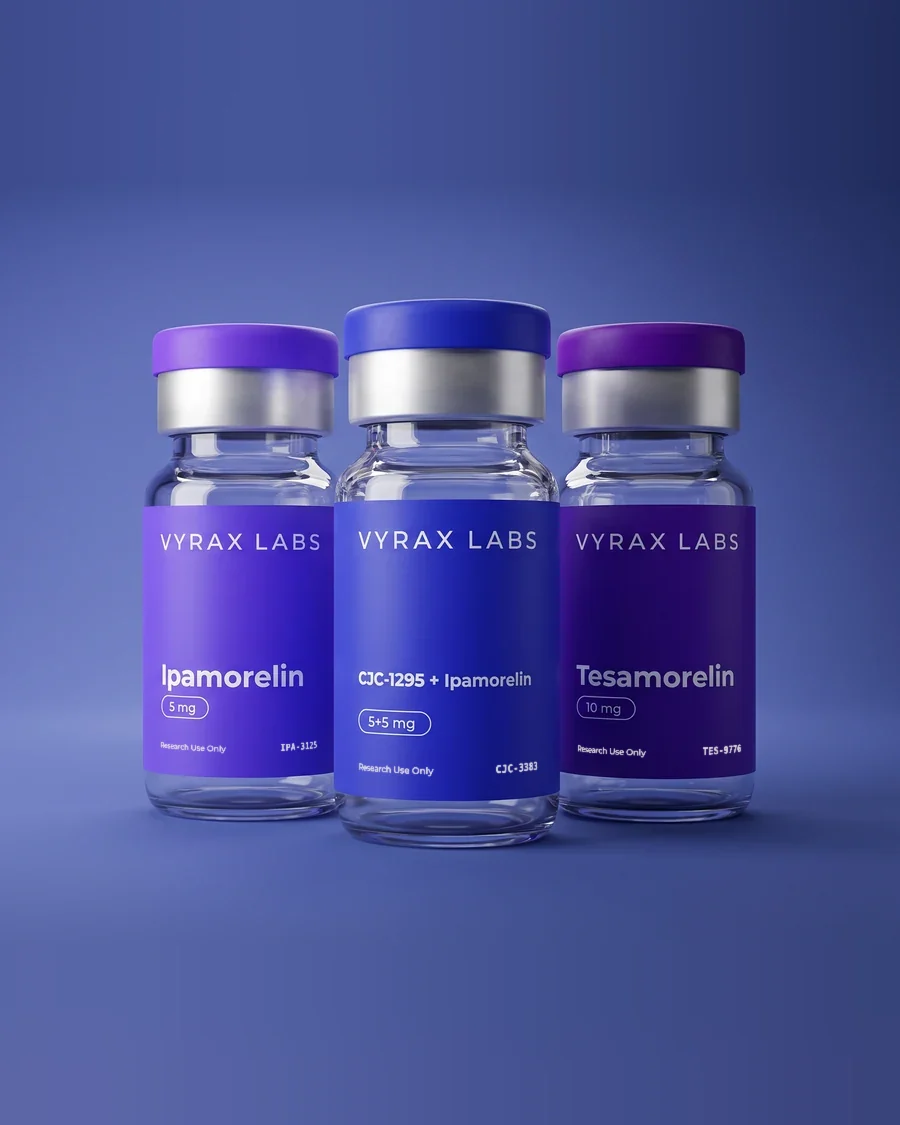
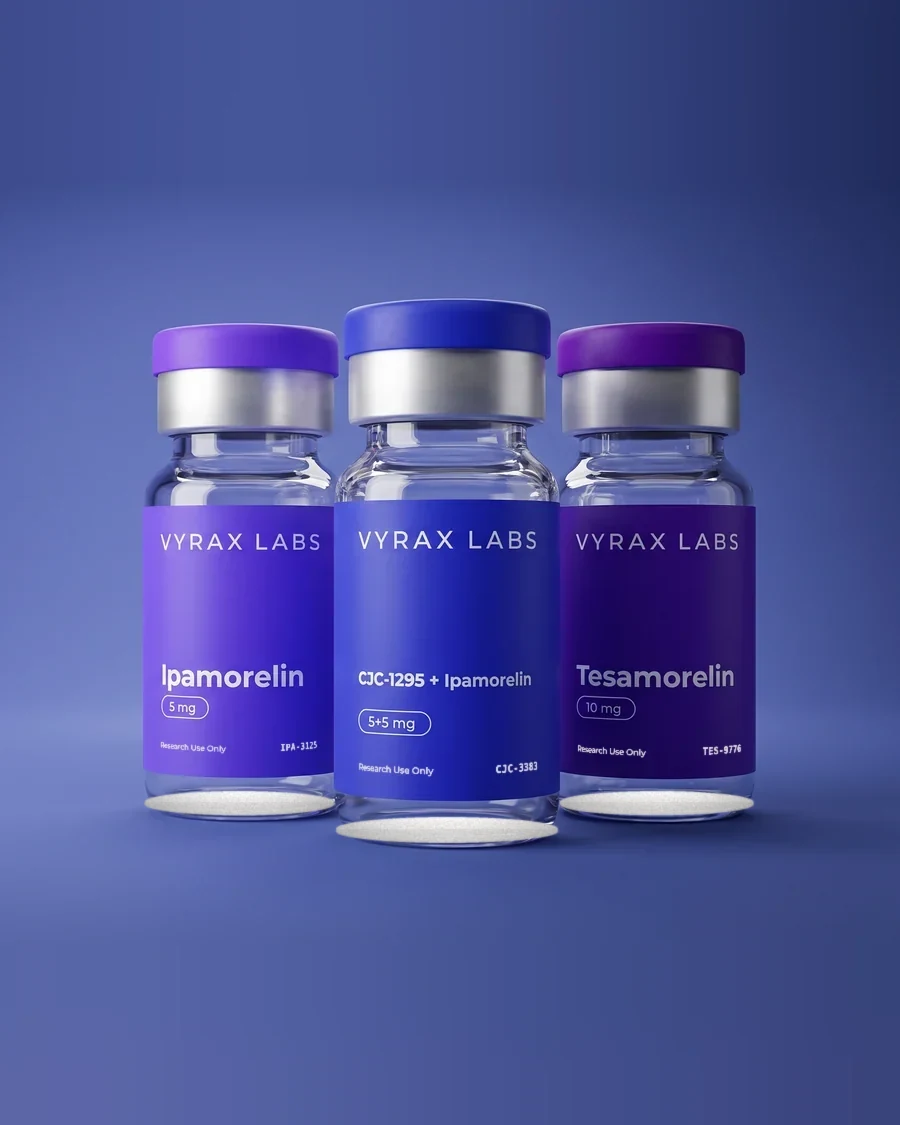
Vyrax god PR: hero powder + professional welcome popup (#14)
* Mobile hero: powder in vials; calmer, smaller welcome popup

* deploy.sh: pin checkout flag so clean-tree deploys keep checkout open

---------

Changed region(s): [[0.1556, 0.6844, 0.84, 0.7778]]

diff --git a/src/components/shell/OfferPopup.tsx b/src/components/shell/OfferPopup.tsx
@@ -95,7 +95,8 @@ export function OfferPopup() {
 
   const giftValue = offerGift?.value ?? 0;
   const retaPrice =
-    compounds.find((x) => x.slug === "retatrutide")?.strengths.find((s) => s.label === "10mg")?.price ?? 29.99;
+    compounds.find((x) => x.slug === "retatrutide")?.strengths.find((s) => s.label === "10mg")
+      ?.price ?? 29.99;
   const freeGoods = (giftValue + retaPrice).toFixed(2);
   const giftImg = offerGift ? productImage(offerGift.slug, offerGift.strength) : null;
   const retaImg = productImage("retatrutide", "10mg");
@@ -109,72 +110,75 @@ export function OfferPopup() {
         aria-modal="true"
         aria-label="Welcome offer"
         data-testid="offer-popup"
-        className="offer-panel max-h-[94vh] w-full max-w-[440px] overflow-y-auto rounded-t-[24px] border border-[#DDD9D2] bg-paper text-center shadow-[0_-20px_56px_-8px_rgba(11,27,59,0.45)] sm:rounded-[24px] sm:shadow-[0_20px_56px_-8px_rgba(11,27,59,0.45)]"
+        className="offer-panel max-h-[94vh] w-full max-w-[380px] overflow-y-auto rounded-t-[16px] border border-[#DDD9D2] bg-paper text-center shadow-[0_-20px_56px_-8px_rgba(11,27,59,0.45)] sm:rounded-[16px] sm:shadow-[0_20px_56px_-8px_rgba(11,27,59,0.45)]"
       >
         {step === "quiz" && (
-          <div className="offer-step px-6 pb-5 pt-[22px]">
-            <p className="text-[15px] font-black uppercase leading-[18px] tracking-[2.4px] text-ink">Get up to</p>
-            <p className="mt-[2px] font-heading text-[62px] font-black leading-[60px] tracking-[-2.6px] text-[#C0552A]">
-              {topOfferPct}% OFF
+          <div className="offer-step px-5 pb-4 pt-5">
+            <p className="text-[11px] font-semibold uppercase leading-[14px] tracking-[2.2px] text-ink/50">
+              Welcome offer
             </p>
-            <p className="mt-[1px] text-[25px] font-black leading-[29px] tracking-[-0.4px] text-ink">your first order</p>
-
-            <div className="mt-[14px] flex items-center gap-3">
-              <span className="h-px flex-1 bg-line" />
-              <span className="text-[13px] font-black uppercase leading-[16px] tracking-[3px] text-ink">Plus</span>
-              <span className="h-px flex-1 bg-line" />
-            </div>
-            <p className="mt-[5px] text-[23px] font-black leading-[27px] tracking-[-0.4px] text-ink">
-              <span className="text-[#C0552A]">up to £{freeGoods}</span> of free goods
+            <p className="mt-2 font-heading text-[28px] font-bold leading-[32px] tracking-[-0.02em] text-ink">
+              Up to {topOfferPct}% off{" "}
+              <span className="font-medium text-ink/70">your first order</span>
+            </p>
+            <p className="mt-1.5 text-[14px] leading-[20px] text-ink/65">
+              Plus up to <span className="font-semibold text-ink">£{freeGoods}</span> of free goods
+              on qualifying baskets.
             </p>
 
-            <div className="mt-3 grid grid-cols-2 gap-[10px]">
+            <div className="mt-4 grid grid-cols-2 gap-2">
               {giftImg && (
-                <div className="offer-tile flex flex-col items-center rounded-[16px] bg-ink pb-3 pt-[18px]">
-                  <span className="offer-vial relative flex h-[100px] w-full items-end justify-center">
-                    <img src={giftImg.src} alt="" className="h-full w-auto object-contain" />
+                <div className="offer-tile flex items-center gap-2 rounded-[12px] bg-ink px-2.5 py-2">
+                  <span className="offer-vial relative flex h-[52px] w-[40px] shrink-0 items-end justify-center">
+                    <img
+                      src={giftImg.src}
+                      alt=""
+                      className="h-full w-auto rounded-[6px] object-contain"
+                    />
                   </span>
-                  <p className="mt-[10px] px-2 text-[12px] font-bold leading-[15px] text-paper">
-                    {offerGift?.short}
-                  </p>
-                  <p className="mt-[4px] flex flex-col items-center justify-center gap-[1px]">
-                    <s className="text-[12px] font-medium leading-[15px] text-paper/45 decoration-[#C6603C] decoration-[1.5px]">
-                      £{giftValue.toFixed(2)}
-                    </s>
-                    <span className="text-[19px] font-black uppercase leading-[22px] tracking-[1.6px] text-[#E8764B]">
-                      Free
+                  <p className="min-w-0 text-left">
+                    <span className="block truncate text-[12px] font-semibold leading-[15px] text-paper">
+                      {offerGift?.short}
+                    </span>
+                    <span className="block text-[11px] leading-[14px] text-paper/55">
+                      <s className="decoration-paper/40">£{giftValue.toFixed(2)}</s>{" "}
+                      <span className="font-bold uppercase tracking-[1px] text-[#E8764B]">
+                        Free
+                      </span>
                     </span>
                   </p>
                 </div>
               )}
-              <div className="offer-tile flex flex-col items-center rounded-[16px] bg-ink pb-3 pt-[18px]">
-                <span className="offer-vial relative flex h-[100px] w-full items-end justify-center">
-                  <img src={retaImg.src} alt="" className="h-full w-auto object-contain" />
+              <div className="offer-tile flex items-center gap-2 rounded-[12px] bg-ink px-2.5 py-2">
+                <span className="offer-vial relative flex h-[52px] w-[40px] shrink-0 items-end justify-center">
+                  <img
+                    src={retaImg.src}
+                    alt=""
+                    className="h-full w-auto rounded-[6px] object-contain"
+                  />
                 </span>
-                <p className="mt-[10px] px-2 text-[12px] font-bold leading-[15px] text-paper">
-                  Buy 2, get the 3rd free
-                </p>
-                <p className="mt-[4px] flex flex-col items-center justify-center gap-[1px]">
-                  <s className="text-[12px] font-medium leading-[15px] text-paper/45 decoration-[#C6603C] decoration-[1.5px]">
-                    £{retaPrice.toFixed(2)}
-                  </s>
-                  <span className="text-[19px] font-black uppercase leading-[22px] tracking-[1.6px] text-[#E8764B]">
-                    Free
+                <p className="min-w-0 text-left">
+                  <span className="block truncate text-[12px] font-semibold leading-[15px] text-paper">
+                    Buy 2, get 3rd
+                  </span>
+                  <span className="block text-[11px] leading-[14px] text-paper/55">
+                    <s className="decoration-paper/40">£{retaPrice.toFixed(2)}</s>{" "}
+                    <span className="font-bold uppercase tracking-[1px] text-[#E8764B]">Free</span>
                   </span>
                 </p>
               </div>
             </div>
 
-            <p className="mt-5 w-full text-[20px] font-black leading-[25px] tracking-[-0.3px] text-ink">
-              Just tell us what you're researching
+            <p className="mt-5 text-[13px] font-semibold leading-[18px] text-ink">
+              What are you researching?
             </p>
-            <div className="mt-[14px] flex w-full flex-col gap-[10px]" role="group">
+            <div className="mt-2.5 flex w-full flex-col gap-2" role="group">
               {researchIntents.map((i) => (
                 <button
                   key={i.id}
                   type="button"
                   onClick={() => setStep("claim")}
-                  className="flex h-[50px] w-full items-center justify-center rounded-[26px] bg-ink text-[15px] font-bold tracking-[0.1px] text-paper transition-[transform,background-color] duration-200 ease-out hover:bg-[#1A2352] active:scale-[0.98]"
+                  className="flex h-[44px] w-full items-center justify-center rounded-[10px] border border-ink/15 bg-transparent text-[14px] font-semibold text-ink transition-[transform,background-color,color] duration-200 ease-out hover:bg-ink hover:text-paper active:scale-[0.98]"
                 >
                   {i.label}
                 </button>
@@ -184,17 +188,19 @@ export function OfferPopup() {
             <button
               type="button"
               onClick={dismiss}
-              className="mt-[18px] text-[13px] leading-[17px] text-ink/45 transition-colors hover:text-ink/70"
+              className="mt-3.5 text-[12px] leading-[16px] text-ink/45 transition-colors hover:text-ink/70"
             >
-              No thanks, I'll pay full price
+              No thanks
             </button>
           </div>
         )}
 
         {step === "claim" && (
           <div className="offer-step px-6 pb-5 pt-[22px]">
-            <p className="text-[12px] font-black uppercase tracking-[2.4px] text-[#C0552A]">One step left</p>
-            <p className="mt-2 font-heading text-[30px] font-black leading-[1.05] tracking-[-0.03em] text-ink">
+            <p className="text-[11px] font-semibold uppercase tracking-[2.2px] text-ink/50">
+              One step left
+            </p>
+            <p className="mt-2 font-heading text-[26px] font-bold leading-[1.1] tracking-[-0.03em] text-ink">
               Up to {topOfferPct}% off
             </p>
             <p className="mt-1 text-[17px] font-bold leading-tight text-ink/70">
@@ -212,8 +218,15 @@ export function OfferPopup() {
                 className="h-[50px] w-full rounded-full border border-ink/20 bg-transparent px-5 text-center text-[15px] outline-none focus:border-ink/45"
               />
               <p className="mt-2.5 px-1 text-center text-[10.5px] leading-[1.45] text-ink/45">
-                By claiming you confirm you are 18+ and agree to our <a href="/terms" className="underline">terms</a> and{" "}
-                <a href="/research-use-policy" className="underline">research use policy</a>, and to occasional emails. Unsubscribe any time.
+                By claiming you confirm you are 18+ and agree to our{" "}
+                <a href="/terms" className="underline">
+                  terms
+                </a>{" "}
+                and{" "}
+                <a href="/research-use-policy" className="underline">
+                  research use policy
+                </a>
+                , and to occasional emails. Unsubscribe any time.
               </p>
               <button
                 type="submit"
@@ -235,14 +248,18 @@ export function OfferPopup() {
         {step === "offer" && (
           <div className="offer-step px-6 pb-5 pt-[22px]">
             <div className="reveal-line">
-              <p className="text-[12px] font-black uppercase tracking-[2.4px] text-[#C0552A]">Your code</p>
+              <p className="text-[11px] font-semibold uppercase tracking-[2.2px] text-ink/50">
+                Your code
+              </p>
             </div>
 
             <div className="code-stage mt-3">
               <span className="code-bloom" aria-hidden />
               <div className="code-shell relative rounded-[16px] border border-dashed border-ink/25 bg-ink/[0.04] px-4 py-4 text-center">
                 <span className="code-burst" aria-hidden />
-                <span className="font-heading text-[22px] font-black tracking-[0.1em] text-ink">{code}</span>
+                <span className="font-heading text-[22px] font-black tracking-[0.1em] text-ink">
+                  {code}
+                </span>
               </div>
             </div>
 
@@ -274,7 +291,11 @@ export function OfferPopup() {
               >
                 Start shopping
               </button>
-              <button type="button" onClick={dismiss} className="text-[13px] leading-[17px] text-ink/45">
+              <button
+                type="button"
+                onClick={dismiss}
+                className="text-[13px] leading-[17px] text-ink/45"
+              >
                 No thanks, I'll pay full price
               </button>
             </div>
